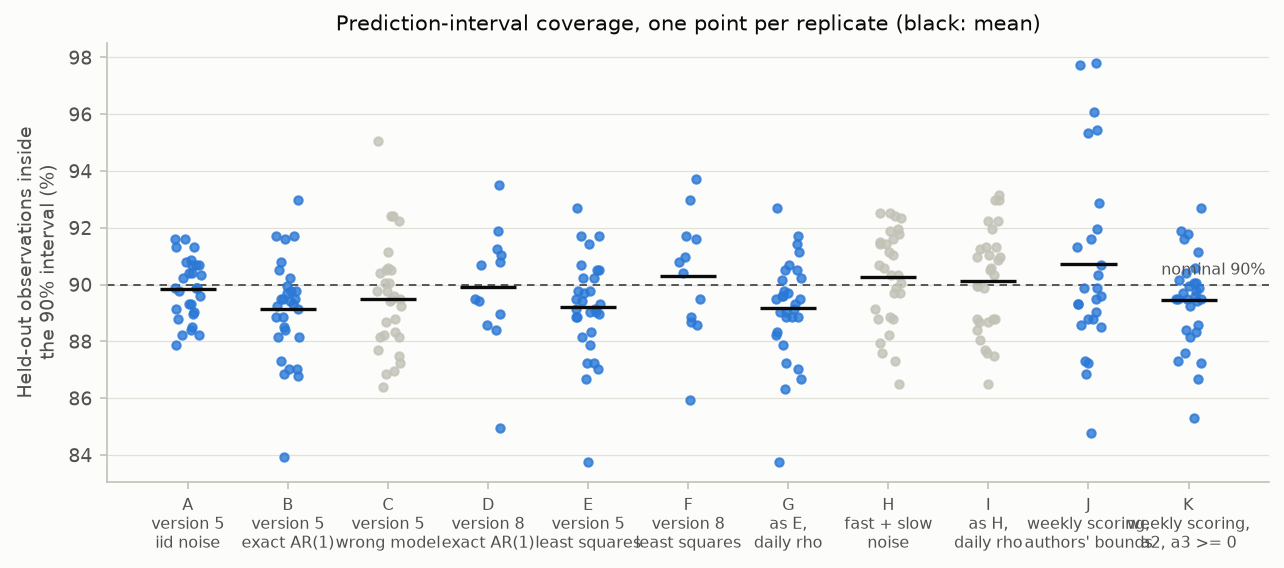
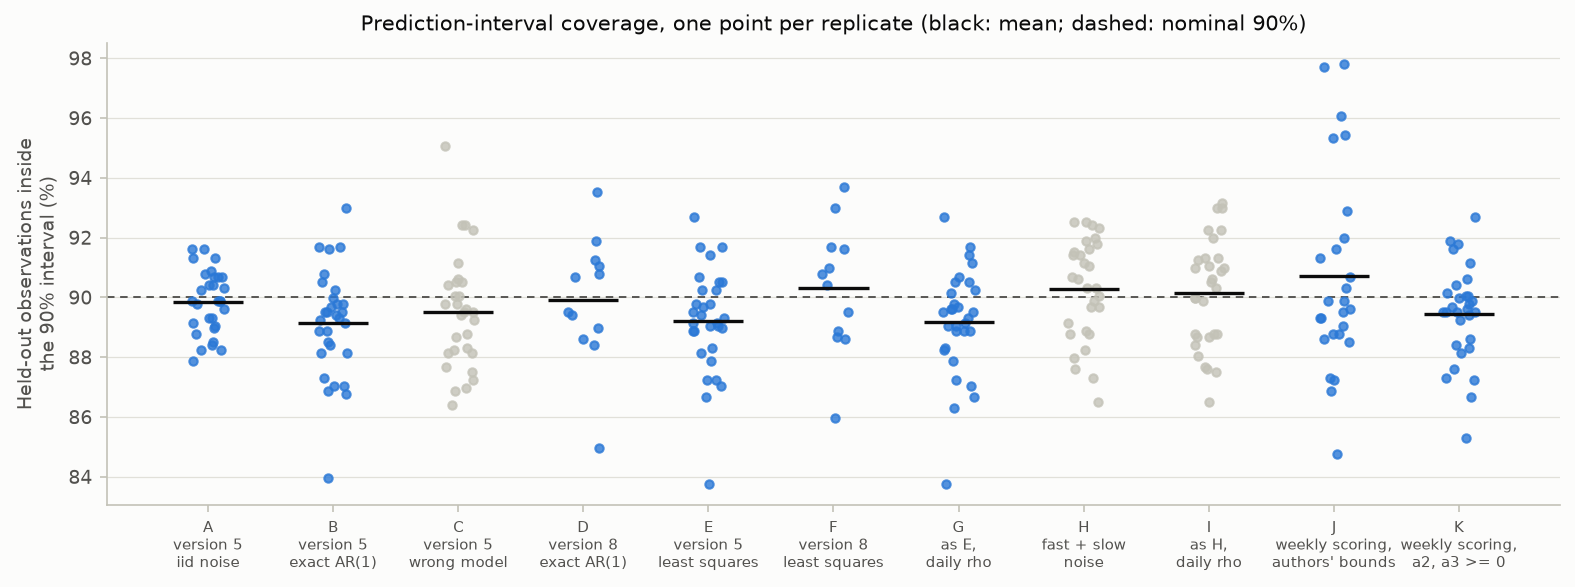
Validation report from the full run on commit 51d2ddf (V1-V10)
Same numbers as the run on 7da512e (apart from the original Fortran program's
own PSO runs in V2, which differ on every run); figures redrawn with legible labels.

Claude-Session: https://claude.ai/code/session_01SBfKS8ELjb3WPKxNdXKy1i

diff --git a/validation/reports/V2.md b/validation/reports/V2.md
@@ -1,13 +1,13 @@
 # V2. Reproduces published results
 
-[Validation summary](../REPORT.md) · pyair2stream 0.4.2, commit 7da512e, 2026-10-05 15:45 UTC · run time 40.2 minutes
+[Validation summary](../REPORT.md) · pyair2stream 0.4.2, commit 51d2ddf, 2026-10-05 17:25 UTC · run time 37.1 minutes
 
 **Result: PASS.**
 
 - (A) All 30 published RMSE values reproduced (largest difference 0.0005 °C).
 - (B) DE matched or improved on the published calibration in 15 of 15 cases (mean difference -0.001 °C).
 - (C) The recalibrated parameters match the published ones in 10 of 15 cases. Where they differ, the fits are within 0.012 °C of each other and the predictions for the validation years within 0.002 °C. The original program, scoring both sets itself, gives the same RMSE as pyair2stream (largest difference 0.000005 °C); where the parameters differ, it finds the recalibrated parameters the better fit in 4 of 5 cases, a tie (within 0.0001 °C) in 1.
-- (D) The original program, run as distributed, reproduced the published parameters in all 3 runs in 9 of 15 cases; elsewhere its own runs differ from each other.
+- (D) The original program, run as distributed, reproduced the published parameters in all 3 runs in 8 of 15 cases; elsewhere its own runs differ from each other.
 - (E) The published parameters are Crank-Nicolson parameters: with RK4 they diverge in 8 of 15 cases and give a different error in the rest. Calibrating with RK4 returns parameters within 1% of range of the published ones in 3 of 15 cases.
 - (F) The published values lie inside pyair2stream's 90% intervals for 67 of 81 parameter values (cross-validation jackknife) and 76 of 81 (MCMC, converged runs); 76 of 81 lie inside at least one.
 
@@ -193,60 +193,65 @@ The original Fortran program seeds its random numbers from the clock, so each of
 |---|---|---|---|---|---|---|---|
 | Mentue | 3 | 0.7927 | 0.7927, 0.7927, 0.7927 | 3 of 3 | 0.7927, 0.7927, 0.7927 | 3 of 3 | 0.7927 |
 | Mentue | 4 | 0.785 | 0.7850, 0.7850, 0.7850 | 3 of 3 | 0.7850, 0.7850, 0.7850 | 3 of 3 | 0.785 |
-| Mentue | 5 | 0.6664 | 0.6664, 0.6664, 0.6664 | 3 of 3 | 0.6664, 0.6664, 0.6665 | 3 of 3 | 0.6664 |
-| Mentue | 7 | 0.6371 | 0.6625, 0.6495, 0.6569 | 0 of 3 | 0.6559, 0.6392, 0.6582 | 0 of 3 | 0.6336 |
-| Mentue | 8 | 0.645 | 0.6554, 0.6574, 0.6443 | 0 of 3 | 0.6654, 0.6576, 0.6589 | 0 of 3 | 0.6331 |
+| Mentue | 5 | 0.6664 | 0.6664, 0.6665, 0.6664 | 3 of 3 | 0.6664, 0.6664, 0.6665 | 3 of 3 | 0.6664 |
+| Mentue | 7 | 0.6371 | 0.6569, 0.6477, 0.6543 | 0 of 3 | 0.6559, 0.6392, 0.6582 | 0 of 3 | 0.6336 |
+| Mentue | 8 | 0.645 | 0.6554, 0.6634, 0.6515 | 0 of 3 | 0.6654, 0.6576, 0.6589 | 0 of 3 | 0.6331 |
 | Rhône | 3 | 0.9072 | 0.9072, 0.9072, 0.9072 | 3 of 3 |  |  | 0.9073 |
-| Rhône | 4 | 0.9065 | 0.9065, 0.9065, 0.9065 | 3 of 3 |  |  | 0.9065 |
-| Rhône | 5 | 0.8707 | 0.8707, 0.8707, 0.8707 | 1 of 3 |  |  | 0.8707 |
-| Rhône | 7 | 0.5787 | 0.5795, 0.5793, 0.5804 | 0 of 3 |  |  | 0.578 |
-| Rhône | 8 | 0.5792 | 0.5796, 0.5797, 0.5816 | 0 of 3 |  |  | 0.5775 |
+| Rhône | 4 | 0.9065 | 0.9065, 0.9066, 0.9065 | 0 of 3 |  |  | 0.9065 |
+| Rhône | 5 | 0.8707 | 0.8707, 0.8709, 0.8707 | 1 of 3 |  |  | 0.8707 |
+| Rhône | 7 | 0.5787 | 0.5800, 0.5786, 0.5798 | 1 of 3 |  |  | 0.578 |
+| Rhône | 8 | 0.5792 | 0.5813, 0.5820, 0.5808 | 0 of 3 |  |  | 0.5775 |
 | Dischmabach | 3 | 0.9369 | 0.9369, 0.9369, 0.9369 | 3 of 3 |  |  | 0.9369 |
 | Dischmabach | 4 | 0.9328 | 0.9328, 0.9328, 0.9328 | 3 of 3 |  |  | 0.9328 |
 | Dischmabach | 5 | 0.7407 | 0.7407, 0.7407, 0.7407 | 3 of 3 |  |  | 0.7407 |
-| Dischmabach | 7 | 0.6349 | 0.6349, 0.6349, 0.6349 | 3 of 3 |  |  | 0.6349 |
-| Dischmabach | 8 | 0.6316 | 0.6316, 0.6316, 0.6328 | 2 of 3 |  |  | 0.6316 |
+| Dischmabach | 7 | 0.6349 | 0.6349, 0.6353, 0.6350 | 1 of 3 |  |  | 0.6349 |
+| Dischmabach | 8 | 0.6316 | 0.6316, 0.6316, 0.6316 | 3 of 3 |  |  | 0.6316 |
 
 **D. Parameter values of every run, where any run differs from the published parameters** ([csv](../results/V2_7.csv))
 
 | river | version | parameters | a1 | a2 | a3 | a4 | a5 | a6 | a7 | a8 | calibration RMSE |
 |---|---|---|---|---|---|---|---|---|---|---|---|
 | Mentue | 7 | published | 0.999 | 0.772 | 0.905 |  | 3.487 | 2.312 | 0.598 | 0.361 | 0.6371 |
-| Mentue | 7 | original program (Fortran PSO), run 1 | 0.911 | 0.972 | 1.112 |  | 6.011 | 3.840 | 0.593 | 0.618 | 0.6625 |
-| Mentue | 7 | original program (Fortran PSO), run 2 | 1.103 | 0.914 | 1.066 |  | 4.643 | 3.058 | 0.597 | 0.480 | 0.6495 |
-| Mentue | 7 | original program (Fortran PSO), run 3 | 1.131 | 0.972 | 1.132 |  | 5.308 | 3.500 | 0.595 | 0.543 | 0.6569 |
+| Mentue | 7 | original program (Fortran PSO), run 1 | 1.378 | 1.000 | 1.179 |  | 4.517 | 3.099 | 0.597 | 0.470 | 0.6569 |
+| Mentue | 7 | original program (Fortran PSO), run 2 | 1.155 | 0.900 | 1.054 |  | 4.384 | 2.926 | 0.598 | 0.457 | 0.6477 |
+| Mentue | 7 | original program (Fortran PSO), run 3 | 0.900 | 0.884 | 1.018 |  | 5.372 | 3.479 | 0.594 | 0.549 | 0.6543 |
 | Mentue | 7 | pyair2stream PSO, run 1 | 1.087 | 0.949 | 1.104 |  | 5.313 | 3.519 | 0.594 | 0.542 | 0.6559 |
 | Mentue | 7 | pyair2stream PSO, run 2 | 0.994 | 0.789 | 0.924 |  | 3.766 | 2.494 | 0.600 | 0.388 | 0.6392 |
 | Mentue | 7 | pyair2stream PSO, run 3 | 0.978 | 0.962 | 1.108 |  | 5.514 | 3.625 | 0.594 | 0.564 | 0.6582 |
 | Mentue | 7 | pyair2stream DE | 0.920 | 0.680 | 0.800 |  | 2.669 | 1.776 | 0.601 | 0.278 | 0.6336 |
 | Mentue | 8 | published | 1.067 | 0.911 | 1.060 | -0.158 | 4.387 | 2.868 | 0.599 | 0.450 | 0.6450 |
-| Mentue | 8 | original program (Fortran PSO), run 1 | 1.222 | 1.036 | 1.205 | -0.238 | 5.543 | 3.661 | 0.595 | 0.569 | 0.6554 |
-| Mentue | 8 | original program (Fortran PSO), run 2 | 1.449 | 1.104 | 1.296 | -0.280 | 5.241 | 3.507 | 0.599 | 0.539 | 0.6574 |
-| Mentue | 8 | original program (Fortran PSO), run 3 | 0.920 | 0.850 | 0.981 | -0.120 | 4.499 | 2.900 | 0.596 | 0.462 | 0.6443 |
+| Mentue | 8 | original program (Fortran PSO), run 1 | 1.030 | 1.033 | 1.187 | -0.244 | 5.590 | 3.591 | 0.598 | 0.573 | 0.6554 |
+| Mentue | 8 | original program (Fortran PSO), run 2 | 1.396 | 1.187 | 1.383 | -0.327 | 5.934 | 3.918 | 0.600 | 0.602 | 0.6634 |
+| Mentue | 8 | original program (Fortran PSO), run 3 | 1.034 | 0.956 | 1.106 | -0.241 | 5.210 | 3.374 | 0.596 | 0.535 | 0.6515 |
 | Mentue | 8 | pyair2stream PSO, run 1 | 1.444 | 1.206 | 1.407 | -0.371 | 6.238 | 4.150 | 0.597 | 0.642 | 0.6654 |
 | Mentue | 8 | pyair2stream PSO, run 2 | 1.319 | 1.071 | 1.249 | -0.251 | 5.706 | 3.793 | 0.596 | 0.587 | 0.6576 |
 | Mentue | 8 | pyair2stream PSO, run 3 | 1.126 | 1.064 | 1.228 | -0.257 | 6.068 | 3.950 | 0.595 | 0.621 | 0.6589 |
 | Mentue | 8 | pyair2stream DE | 0.890 | 0.654 | 0.770 | 0.066 | 2.552 | 1.695 | 0.601 | 0.266 | 0.6331 |
+| Rhône | 4 | published | 12.912 | 0.722 | 2.913 | -0.337 |  |  |  |  | 0.9065 |
+| Rhône | 4 | original program (Fortran PSO), run 1 | 13.274 | 0.742 | 2.995 | -0.355 |  |  |  |  | 0.9065 |
+| Rhône | 4 | original program (Fortran PSO), run 2 | 12.336 | 0.689 | 2.783 | -0.304 |  |  |  |  | 0.9066 |
+| Rhône | 4 | original program (Fortran PSO), run 3 | 13.244 | 0.740 | 2.988 | -0.353 |  |  |  |  | 0.9065 |
+| Rhône | 4 | pyair2stream DE | 12.921 | 0.722 | 2.915 | -0.337 |  |  |  |  | 0.9065 |
 | Rhône | 5 | published | 15.000 | 0.551 | 2.966 |  |  | 2.257 | 0.491 |  | 0.8707 |
-| Rhône | 5 | original program (Fortran PSO), run 1 | 14.280 | 0.526 | 2.825 |  |  | 2.141 | 0.490 |  | 0.8707 |
-| Rhône | 5 | original program (Fortran PSO), run 2 | 14.600 | 0.540 | 2.892 |  |  | 2.181 | 0.490 |  | 0.8707 |
-| Rhône | 5 | original program (Fortran PSO), run 3 | 14.996 | 0.551 | 2.964 |  |  | 2.259 | 0.491 |  | 0.8707 |
+| Rhône | 5 | original program (Fortran PSO), run 1 | 14.931 | 0.548 | 2.951 |  |  | 2.249 | 0.491 |  | 0.8707 |
+| Rhône | 5 | original program (Fortran PSO), run 2 | 13.288 | 0.492 | 2.632 |  |  | 1.981 | 0.490 |  | 0.8709 |
+| Rhône | 5 | original program (Fortran PSO), run 3 | 14.558 | 0.536 | 2.879 |  |  | 2.186 | 0.490 |  | 0.8707 |
 | Rhône | 5 | pyair2stream DE | 15.000 | 0.551 | 2.966 |  |  | 2.257 | 0.491 |  | 0.8707 |
 | Rhône | 7 | published | 0.682 | 0.457 | 0.365 |  | 16.727 | 4.770 | 0.531 | 2.742 | 0.5787 |
-| Rhône | 7 | original program (Fortran PSO), run 1 | 0.410 | 0.492 | 0.341 |  | 19.057 | 5.387 | 0.529 | 3.105 | 0.5795 |
-| Rhône | 7 | original program (Fortran PSO), run 2 | 0.327 | 0.476 | 0.317 |  | 18.842 | 5.310 | 0.530 | 3.063 | 0.5793 |
-| Rhône | 7 | original program (Fortran PSO), run 3 | 0.870 | 0.535 | 0.430 |  | 19.850 | 5.788 | 0.530 | 3.261 | 0.5804 |
+| Rhône | 7 | original program (Fortran PSO), run 1 | 0.464 | 0.510 | 0.350 |  | 19.988 | 5.742 | 0.530 | 3.265 | 0.5800 |
+| Rhône | 7 | original program (Fortran PSO), run 2 | 0.548 | 0.451 | 0.341 |  | 16.821 | 4.767 | 0.530 | 2.751 | 0.5786 |
+| Rhône | 7 | original program (Fortran PSO), run 3 | 0.317 | 0.491 | 0.316 |  | 19.743 | 5.635 | 0.531 | 3.213 | 0.5798 |
 | Rhône | 7 | pyair2stream DE | 0.596 | 0.390 | 0.313 |  | 14.063 | 4.016 | 0.529 | 2.311 | 0.5780 |
 | Rhône | 8 | published | 0.560 | 0.509 | 0.374 | -0.191 | 19.220 | 5.435 | 0.530 | 3.139 | 0.5792 |
-| Rhône | 8 | original program (Fortran PSO), run 1 | 0.819 | 0.548 | 0.436 | -0.252 | 19.955 | 5.702 | 0.529 | 3.272 | 0.5796 |
-| Rhône | 8 | original program (Fortran PSO), run 2 | 1.323 | 0.519 | 0.487 | -0.202 | 17.382 | 5.208 | 0.529 | 2.904 | 0.5797 |
-| Rhône | 8 | original program (Fortran PSO), run 3 | 1.888 | 0.640 | 0.647 | -0.414 | 19.994 | 6.020 | 0.529 | 3.366 | 0.5816 |
+| Rhône | 8 | original program (Fortran PSO), run 1 | 1.838 | 0.625 | 0.634 | -0.387 | 19.965 | 5.993 | 0.529 | 3.342 | 0.5813 |
+| Rhône | 8 | original program (Fortran PSO), run 2 | 2.077 | 0.657 | 0.699 | -0.456 | 19.982 | 5.941 | 0.528 | 3.359 | 0.5820 |
+| Rhône | 8 | original program (Fortran PSO), run 3 | 1.618 | 0.604 | 0.581 | -0.381 | 19.984 | 6.016 | 0.529 | 3.341 | 0.5808 |
 | Rhône | 8 | pyair2stream DE | 0.464 | 0.316 | 0.251 | 0.325 | 11.552 | 3.302 | 0.529 | 1.896 | 0.5775 |
-| Dischmabach | 8 | published | 9.442 | 1.159 | 2.658 | -0.530 | 0.000 | 10.000 | 0.582 | 1.305 | 0.6316 |
-| Dischmabach | 8 | original program (Fortran PSO), run 1 | 9.450 | 1.160 | 2.661 | -0.531 | 0.000 | 10.000 | 0.582 | 1.305 | 0.6316 |
-| Dischmabach | 8 | original program (Fortran PSO), run 2 | 9.450 | 1.160 | 2.660 | -0.531 | 0.000 | 10.000 | 0.582 | 1.305 | 0.6316 |
-| Dischmabach | 8 | original program (Fortran PSO), run 3 | 8.159 | 0.999 | 2.284 | -0.411 | 0.002 | 8.806 | 0.582 | 1.152 | 0.6328 |
-| Dischmabach | 8 | pyair2stream DE | 9.442 | 1.159 | 2.658 | -0.530 | 0.000 | 10.000 | 0.582 | 1.305 | 0.6316 |
+| Dischmabach | 7 | published | 9.108 | 1.107 | 2.552 |  | 0.000 | 10.000 | 0.582 | 1.295 | 0.6349 |
+| Dischmabach | 7 | original program (Fortran PSO), run 1 | 9.106 | 1.107 | 2.551 |  | 0.000 | 10.000 | 0.582 | 1.295 | 0.6349 |
+| Dischmabach | 7 | original program (Fortran PSO), run 2 | 8.178 | 0.998 | 2.293 |  | 0.003 | 8.983 | 0.582 | 1.168 | 0.6353 |
+| Dischmabach | 7 | original program (Fortran PSO), run 3 | 8.856 | 1.074 | 2.473 |  | 0.000 | 9.790 | 0.582 | 1.269 | 0.6350 |
+| Dischmabach | 7 | pyair2stream DE | 9.109 | 1.107 | 2.552 |  | 0.000 | 10.000 | 0.582 | 1.295 | 0.6349 |
 
 ### E. The scheme matters: RK4 instead of Crank-Nicolson
 
@@ -262,19 +267,19 @@ The original program's readme lists the RK4 scheme in its example; the paper sta
 |---|---|---|---|---|---|---|---|---|---|
 | Mentue | 3 | 0.7927 | 0.7755 | 0.775 | 0.4 | 0.7750, 0.7750, 0.7750 | 3 of 3 |  |  |
 | Mentue | 4 | 0.7850 | 0.7683 | 0.7677 | 0.6 | 0.7677, 0.7677, 0.7677 | 3 of 3 |  |  |
-| Mentue | 5 | 0.6664 | 0.6484 | 0.6476 | 0.6 | 0.6476, 0.6478, 0.6479 | 1 of 3 |  |  |
-| Mentue | 7 | 0.6371 | 1.7291 | 0.6236 | 11.2 | 0.6238, 0.6239, 0.6237 | 0 of 3 | 0.6236, 0.6236, 0.6236 | 0 of 3 |
-| Mentue | 8 | 0.6450 | diverged | 0.6152 | 14.4 | 0.6258, 0.6157, 0.6188 | 0 of 3 | 0.6152, 0.6155, 0.6155 | 0 of 3 |
+| Mentue | 5 | 0.6664 | 0.6484 | 0.6476 | 0.6 | 0.6477, 0.6477, 0.6477 | 3 of 3 |  |  |
+| Mentue | 7 | 0.6371 | 1.7291 | 0.6236 | 11.2 | 0.6247, 0.6252, 0.6236 | 0 of 3 | 0.6236, 0.6236, 0.6236 | 0 of 3 |
+| Mentue | 8 | 0.6450 | diverged | 0.6152 | 14.4 | 0.6170, 0.6212, 0.6153 | 0 of 3 | 0.6152, 0.6155, 0.6155 | 0 of 3 |
 | Rhône | 3 | 0.9072 | 0.9177 | 0.9084 | 16.5 | 0.9084, 0.9084, 0.9084 | 0 of 3 |  |  |
-| Rhône | 4 | 0.9065 | diverged | 0.9 | 18 | 0.9003, 0.9000, 0.9000 | 0 of 3 |  |  |
+| Rhône | 4 | 0.9065 | diverged | 0.9 | 18 | 0.9001, 0.9001, 0.9000 | 0 of 3 |  |  |
 | Rhône | 5 | 0.8707 | diverged | 0.8755 | 29.1 | 0.8755, 0.8755, 0.8755 | 0 of 3 |  |  |
-| Rhône | 7 | 0.5787 | diverged | 0.6093 | 65.2 | 0.6259, 0.6445, 0.6568 | 0 of 3 |  |  |
-| Rhône | 8 | 0.5792 | diverged | 0.581 | 57.5 | 0.6137, 0.5933, 0.5819 | 0 of 3 |  |  |
+| Rhône | 7 | 0.5787 | diverged | 0.6093 | 65.2 | 0.6236, 0.6330, 0.6334 | 0 of 3 |  |  |
+| Rhône | 8 | 0.5792 | diverged | 0.581 | 57.5 | 0.6296, 0.5850, 0.5900 | 0 of 3 |  |  |
 | Dischmabach | 3 | 0.9369 | 0.8990 | 0.8904 | 3.2 | 0.8904, 0.8904, 0.8904 | 0 of 3 |  |  |
 | Dischmabach | 4 | 0.9328 | diverged | 0.8793 | 28.9 | 0.8793, 0.8793, 0.8793 | 0 of 3 |  |  |
 | Dischmabach | 5 | 0.7407 | diverged | 0.6978 | 37.6 | 0.6978, 0.6978, 0.6978 | 0 of 3 |  |  |
-| Dischmabach | 7 | 0.6349 | diverged | 0.6377 | 69.2 | 0.6379, 0.6383, 0.6377 | 0 of 3 |  |  |
-| Dischmabach | 8 | 0.6316 | 4.7963 | 0.6057 | 50.9 | 0.6066, 0.6067, 0.6189 | 0 of 3 |  |  |
+| Dischmabach | 7 | 0.6349 | diverged | 0.6377 | 69.2 | 0.6392, 0.6407, 0.6377 | 0 of 3 |  |  |
+| Dischmabach | 8 | 0.6316 | 4.7963 | 0.6057 | 50.9 | 0.6057, 0.7083, 0.6477 | 0 of 3 |  |  |
 
 **E. Mentue: parameter values from calibration with RK4** ([csv](../results/V2_9.csv))
 
@@ -292,22 +297,22 @@ The original program's readme lists the RK4 scheme in its example; the paper sta
 | Mentue | 4 | original program (Fortran PSO) with RK4, run 3 | 0.935 | 0.504 | 0.620 | 0.212 |  |  |  |  | 0.7677 | 0.6 |
 | Mentue | 5 | published | 3.075 | 0.668 | 1.010 |  |  | 1.616 | 0.583 |  | 0.6664 |  |
 | Mentue | 5 | DE with RK4 | 3.149 | 0.708 | 1.059 |  |  | 1.632 | 0.585 |  | 0.6476 | 0.6 |
-| Mentue | 5 | original program (Fortran PSO) with RK4, run 1 | 3.133 | 0.706 | 1.055 |  |  | 1.623 | 0.585 |  | 0.6476 | 0.6 |
-| Mentue | 5 | original program (Fortran PSO) with RK4, run 2 | 3.285 | 0.734 | 1.101 |  |  | 1.711 | 0.586 |  | 0.6478 | 1.1 |
-| Mentue | 5 | original program (Fortran PSO) with RK4, run 3 | 3.323 | 0.736 | 1.106 |  |  | 1.737 | 0.585 |  | 0.6479 | 1.2 |
+| Mentue | 5 | original program (Fortran PSO) with RK4, run 1 | 3.246 | 0.723 | 1.085 |  |  | 1.695 | 0.585 |  | 0.6477 | 0.9 |
+| Mentue | 5 | original program (Fortran PSO) with RK4, run 2 | 3.224 | 0.719 | 1.078 |  |  | 1.676 | 0.585 |  | 0.6477 | 0.8 |
+| Mentue | 5 | original program (Fortran PSO) with RK4, run 3 | 3.234 | 0.722 | 1.083 |  |  | 1.682 | 0.585 |  | 0.6477 | 0.8 |
 | Mentue | 7 | published | 0.999 | 0.772 | 0.905 |  | 3.487 | 2.312 | 0.598 | 0.361 | 0.6371 |  |
 | Mentue | 7 | DE with RK4 | 0.912 | 0.623 | 0.741 |  | 1.764 | 1.189 | 0.607 | 0.182 | 0.6236 | 11.2 |
-| Mentue | 7 | original program (Fortran PSO) with RK4, run 1 | 0.954 | 0.628 | 0.749 |  | 1.674 | 1.145 | 0.609 | 0.173 | 0.6238 | 11.7 |
-| Mentue | 7 | original program (Fortran PSO) with RK4, run 2 | 0.969 | 0.637 | 0.760 |  | 1.687 | 1.152 | 0.609 | 0.175 | 0.6239 | 11.6 |
-| Mentue | 7 | original program (Fortran PSO) with RK4, run 3 | 0.948 | 0.629 | 0.751 |  | 1.722 | 1.170 | 0.608 | 0.178 | 0.6237 | 11.4 |
+| Mentue | 7 | original program (Fortran PSO) with RK4, run 1 | 0.994 | 0.649 | 0.778 |  | 1.731 | 1.183 | 0.608 | 0.176 | 0.6247 | 11.3 |
+| Mentue | 7 | original program (Fortran PSO) with RK4, run 2 | 1.066 | 0.660 | 0.793 |  | 1.641 | 1.152 | 0.611 | 0.169 | 0.6252 | 11.6 |
+| Mentue | 7 | original program (Fortran PSO) with RK4, run 3 | 0.917 | 0.625 | 0.743 |  | 1.761 | 1.189 | 0.607 | 0.182 | 0.6236 | 11.2 |
 | Mentue | 7 | pyair2stream PSO with RK4, run 1 | 0.938 | 0.632 | 0.753 |  | 1.747 | 1.184 | 0.608 | 0.180 | 0.6236 | 11.3 |
 | Mentue | 7 | pyair2stream PSO with RK4, run 2 | 0.925 | 0.626 | 0.744 |  | 1.735 | 1.174 | 0.608 | 0.179 | 0.6236 | 11.4 |
 | Mentue | 7 | pyair2stream PSO with RK4, run 3 | 0.927 | 0.627 | 0.746 |  | 1.739 | 1.178 | 0.608 | 0.179 | 0.6236 | 11.3 |
 | Mentue | 8 | published | 1.067 | 0.911 | 1.060 | -0.158 | 4.387 | 2.868 | 0.599 | 0.450 | 0.6450 |  |
 | Mentue | 8 | DE with RK4 | 0.890 | 0.650 | 0.766 | 0.129 | 2.324 | 1.539 | 0.603 | 0.242 | 0.6152 | 14.4 |
-| Mentue | 8 | original program (Fortran PSO) with RK4, run 1 | 0.764 | 0.728 | 0.840 | 0.225 | 3.586 | 2.298 | 0.596 | 0.368 | 0.6258 | 19.2 |
-| Mentue | 8 | original program (Fortran PSO) with RK4, run 2 | 0.881 | 0.625 | 0.739 | 0.130 | 2.124 | 1.414 | 0.604 | 0.222 | 0.6157 | 14.5 |
-| Mentue | 8 | original program (Fortran PSO) with RK4, run 3 | 0.836 | 0.698 | 0.815 | 0.165 | 3.029 | 1.966 | 0.600 | 0.310 | 0.6188 | 16.2 |
+| Mentue | 8 | original program (Fortran PSO) with RK4, run 1 | 0.846 | 0.683 | 0.798 | 0.161 | 2.805 | 1.826 | 0.601 | 0.288 | 0.6170 | 15.9 |
+| Mentue | 8 | original program (Fortran PSO) with RK4, run 2 | 0.887 | 0.733 | 0.859 | 0.160 | 3.102 | 2.025 | 0.602 | 0.314 | 0.6212 | 15.9 |
+| Mentue | 8 | original program (Fortran PSO) with RK4, run 3 | 0.889 | 0.654 | 0.771 | 0.130 | 2.368 | 1.568 | 0.603 | 0.245 | 0.6153 | 14.4 |
 | Mentue | 8 | pyair2stream PSO with RK4, run 1 | 0.904 | 0.651 | 0.769 | 0.127 | 2.293 | 1.523 | 0.604 | 0.239 | 0.6152 | 14.2 |
 | Mentue | 8 | pyair2stream PSO with RK4, run 2 | 0.924 | 0.649 | 0.768 | 0.120 | 2.162 | 1.443 | 0.605 | 0.226 | 0.6155 | 14.3 |
 | Mentue | 8 | pyair2stream PSO with RK4, run 3 | 0.950 | 0.659 | 0.781 | 0.119 | 2.208 | 1.484 | 0.605 | 0.230 | 0.6155 | 13.9 |

diff --git a/validation/REPORT.md b/validation/REPORT.md
@@ -21,10 +21,10 @@ Generated by `validation/run_all.py`. This page summarises each check; its full 
 
 | | |
 |---|---|
-| Date | 2026-10-05 15:45 UTC |
-| pyair2stream | 0.4.2, commit 7da512e at the start of the run |
+| Date | 2026-10-05 17:25 UTC |
+| pyair2stream | 0.4.2, commit 51d2ddf at the start of the run |
 | Mode | full |
-| Run time | 103.1 minutes |
+| Run time | 96.6 minutes |
 | Python | 3.11.15 |
 | Packages | numpy 2.4.6, scipy 1.17.1, pandas 3.0.6, emcee 3.1.6, numba 0.68.0 |
 | Machine | Linux x86_64, 4 CPUs |
@@ -56,7 +56,7 @@ Generated by `validation/run_all.py`. This page summarises each check; its full 
 - (A) All 30 published RMSE values reproduced (largest difference 0.0005 °C).
 - (B) DE matched or improved on the published calibration in 15 of 15 cases (mean difference -0.001 °C).
 - (C) The recalibrated parameters match the published ones in 10 of 15 cases. Where they differ, the fits are within 0.012 °C of each other and the predictions for the validation years within 0.002 °C. The original program, scoring both sets itself, gives the same RMSE as pyair2stream (largest difference 0.000005 °C); where the parameters differ, it finds the recalibrated parameters the better fit in 4 of 5 cases, a tie (within 0.0001 °C) in 1.
-- (D) The original program, run as distributed, reproduced the published parameters in all 3 runs in 9 of 15 cases; elsewhere its own runs differ from each other.
+- (D) The original program, run as distributed, reproduced the published parameters in all 3 runs in 8 of 15 cases; elsewhere its own runs differ from each other.
 - (E) The published parameters are Crank-Nicolson parameters: with RK4 they diverge in 8 of 15 cases and give a different error in the rest. Calibrating with RK4 returns parameters within 1% of range of the published ones in 3 of 15 cases.
 - (F) The published values lie inside pyair2stream's 90% intervals for 67 of 81 parameter values (cross-validation jackknife) and 76 of 81 (MCMC, converged runs); 76 of 81 lie inside at least one.
 

diff --git a/validation/reports/V10.md b/validation/reports/V10.md
@@ -1,6 +1,6 @@
 # V10. Predicting warmer or lower-flow years than those calibrated on
 
-[Validation summary](../REPORT.md) · pyair2stream 0.4.2, commit 7da512e, 2026-10-05 15:45 UTC · run time 7.2 minutes
+[Validation summary](../REPORT.md) · pyair2stream 0.4.2, commit 51d2ddf, 2026-10-05 17:25 UTC · run time 7.2 minutes
 
 **Result: FAIL.**
 

diff --git a/validation/reports/V5.md b/validation/reports/V5.md
@@ -1,6 +1,6 @@
 # V5. Predicts real rivers in years it was not calibrated on
 
-[Validation summary](../REPORT.md) · pyair2stream 0.4.2, commit 7da512e, 2026-10-05 15:45 UTC · run time 5.9 minutes
+[Validation summary](../REPORT.md) · pyair2stream 0.4.2, commit 51d2ddf, 2026-10-05 17:25 UTC · run time 5.6 minutes
 
 **Result: FAIL.**
 

diff --git a/validation/reports/V8.md b/validation/reports/V8.md
@@ -1,6 +1,6 @@
 # V8. Workflow and scenario tools give exact answers
 
-[Validation summary](../REPORT.md) · pyair2stream 0.4.2, commit 7da512e, 2026-10-05 15:45 UTC · run time 1.0 minutes
+[Validation summary](../REPORT.md) · pyair2stream 0.4.2, commit 51d2ddf, 2026-10-05 17:25 UTC · run time 1.0 minutes
 
 **Result: PASS.**
 

diff --git a/validation/reports/V9.md b/validation/reports/V9.md
@@ -1,6 +1,6 @@
 # V9. Probabilities that a limit was exceeded
 
-[Validation summary](../REPORT.md) · pyair2stream 0.4.2, commit 7da512e, 2026-10-05 15:45 UTC · run time 12.3 minutes
+[Validation summary](../REPORT.md) · pyair2stream 0.4.2, commit 51d2ddf, 2026-10-05 17:25 UTC · run time 11.7 minutes
 
 **Result: FAIL.**
 

diff --git a/validation/reports/V4.md b/validation/reports/V4.md
@@ -1,6 +1,6 @@
 # V4. Uncertainty intervals are calibrated
 
-[Validation summary](../REPORT.md) · pyair2stream 0.4.2, commit 7da512e, 2026-10-05 15:45 UTC · run time 35.6 minutes
+[Validation summary](../REPORT.md) · pyair2stream 0.4.2, commit 51d2ddf, 2026-10-05 17:25 UTC · run time 33.2 minutes
 
 **Result: PASS.**
 

diff --git a/validation/reports/V1.md b/validation/reports/V1.md
@@ -1,6 +1,6 @@
 # V1. Same results as the original Fortran
 
-[Validation summary](../REPORT.md) · pyair2stream 0.4.2, commit 7da512e, 2026-10-05 15:45 UTC · run time 0.2 minutes
+[Validation summary](../REPORT.md) · pyair2stream 0.4.2, commit 51d2ddf, 2026-10-05 17:25 UTC · run time 0.2 minutes
 
 **Result: PASS.**
 

diff --git a/validation/reports/V3.md b/validation/reports/V3.md
@@ -1,6 +1,6 @@
 # V3. Calibration recovers a known truth
 
-[Validation summary](../REPORT.md) · pyair2stream 0.4.2, commit 7da512e, 2026-10-05 15:45 UTC · run time 0.1 minutes
+[Validation summary](../REPORT.md) · pyair2stream 0.4.2, commit 51d2ddf, 2026-10-05 17:25 UTC · run time 0.1 minutes
 
 **Result: PASS.**
 

diff --git a/validation/reports/V6.md b/validation/reports/V6.md
@@ -1,6 +1,6 @@
 # V6. Numerical accuracy and warnings
 
-[Validation summary](../REPORT.md) · pyair2stream 0.4.2, commit 7da512e, 2026-10-05 15:45 UTC · run time 0.3 minutes
+[Validation summary](../REPORT.md) · pyair2stream 0.4.2, commit 51d2ddf, 2026-10-05 17:25 UTC · run time 0.3 minutes
 
 **Result: PASS.**
 

diff --git a/validation/reports/V7.md b/validation/reports/V7.md
@@ -1,6 +1,6 @@
 # V7. Missing data
 
-[Validation summary](../REPORT.md) · pyair2stream 0.4.2, commit 7da512e, 2026-10-05 15:45 UTC · run time 0.1 minutes
+[Validation summary](../REPORT.md) · pyair2stream 0.4.2, commit 51d2ddf, 2026-10-05 17:25 UTC · run time 0.1 minutes
 
 **Result: PASS.**
 
